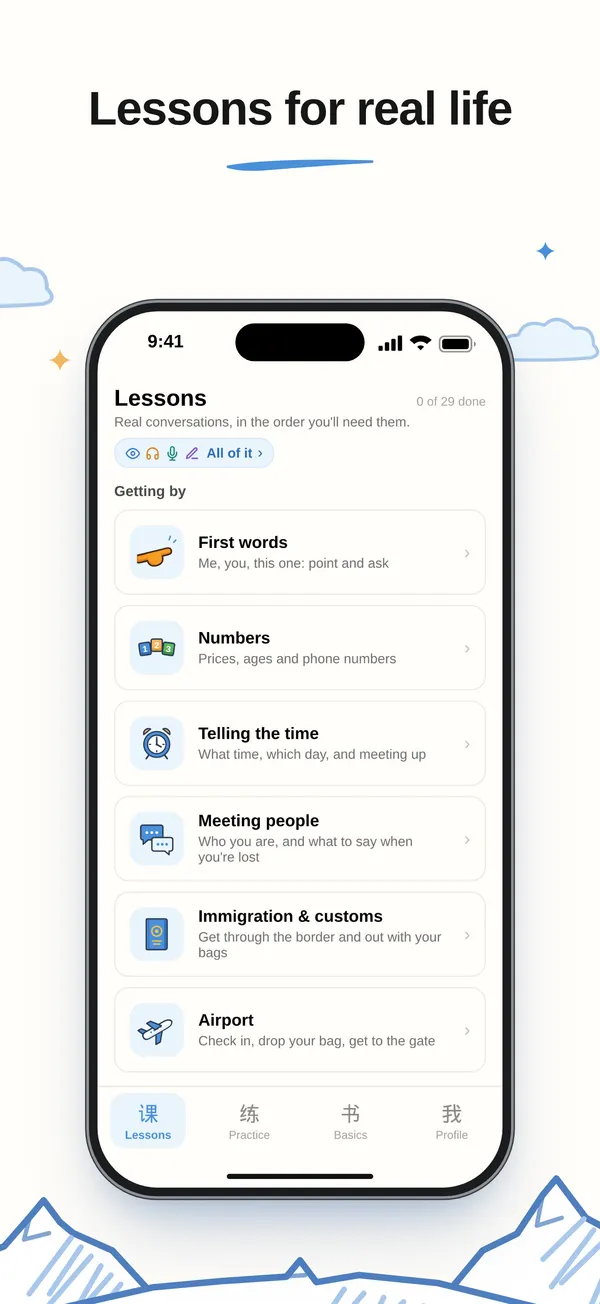
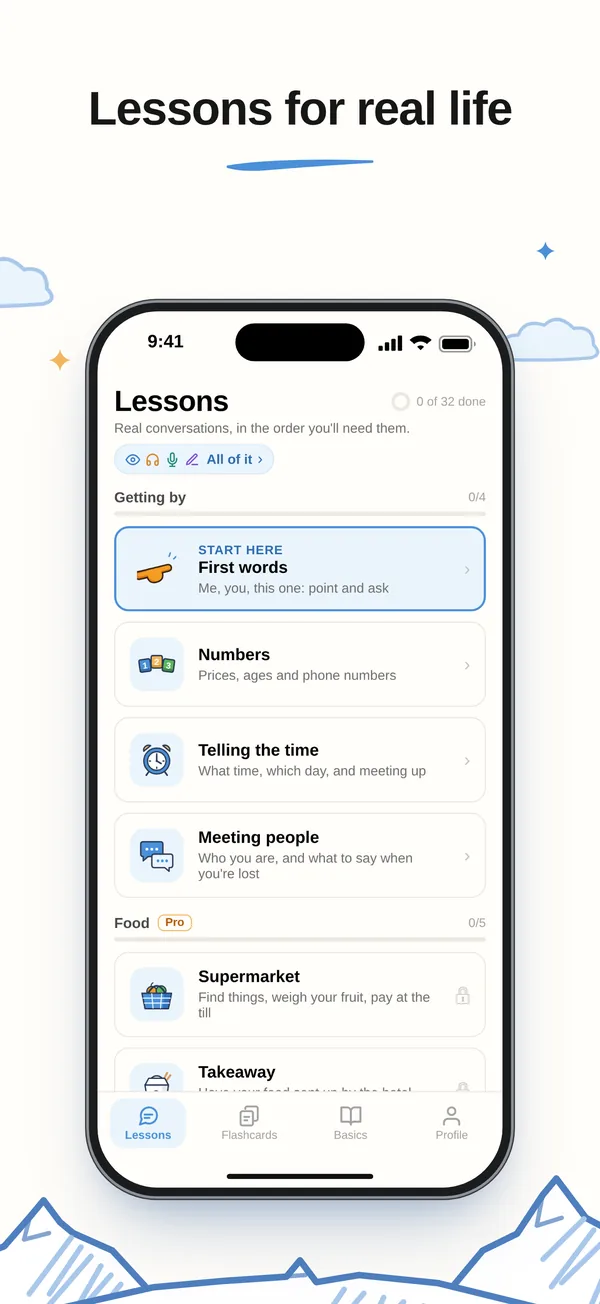
Mandarin Hero: Blog in the top menu, and 'speak Chinese for real' instead of 'a few minutes a day'
The landing page, its screenshots and share image follow the stores' new
copy; 32 lessons, and Flashcards where it said Practice.

Claude-Session: https://claude.ai/code/session_01RWYaChtk6HuFR3oHmpeT9F

diff --git a/site/layouts/apps/mandarinhero.html b/site/layouts/apps/mandarinhero.html
@@ -9,7 +9,7 @@
           <img src="{{ .Params.icon }}" alt="" class="mh-app-icon">
           <span>{{ .Title }}</span>
         </div>
-        <h1 class="mh-title">Master Chinese,<br>a few minutes a day</h1>
+        <h1 class="mh-title">Speak Chinese<br>for real</h1>
         <span class="mh-swoosh" aria-hidden="true"></span>
         <p class="mh-lead">Learn the Mandarin people actually speak. Lessons for real life, said out loud, and words that come back right before you'd forget them.</p>
         {{ partial "mh-get" . }}
@@ -37,7 +37,7 @@
         <div class="mh-step">
           <span class="mh-char">练</span>
           <h3>Make it stick</h3>
-          <p>A few minutes of practice a day. Every word comes back right before you'd forget it, until you know it for good.</p>
+          <p>Flashcards bring every word back right before you'd forget it, until you know it for good.</p>
         </div>
       </div>
       {{ with .Params.video }}
@@ -52,7 +52,7 @@
     </div>
     <div class="mh-gallery" tabindex="0" aria-label="Screenshots">
       {{ range $i, $alt := slice
-        "Master Chinese, a few minutes a day"
+        "Speak Chinese for real"
         "Lessons for real life"
         "Hear how people really talk"
         "Then say your part out loud"
@@ -73,7 +73,7 @@
         <div><h3>Audio on every line</h3><p>Every lesson's words, phrases and conversations are spoken, so your ear learns along with your eyes.</p></div>
         <div><h3>Tones from day one</h3><p>Hear and practise the four tones from the start, so you're understood when you speak.</p></div>
         <div><h3>A story for every character</h3><p>Each character's parts are named and coloured, with a short hook to remember how it's written.</p></div>
-        <div><h3>HSK 1 to 6</h3><p>Switch on whole HSK levels in Practice when you want more: all 5,000 words, with examples.</p></div>
+        <div><h3>HSK 1 to 6</h3><p>Switch on whole HSK levels in Flashcards when you want more: all 5,000 words, with examples.</p></div>
         <div><h3>English and Dutch</h3><p>The whole app, and every card, in either language.</p></div>
       </div>
     </div>
@@ -88,7 +88,7 @@
           <p class="mh-price">€0</p>
           <ul>
             <li>The first four lessons: first words, numbers, telling the time and meeting people</li>
-            <li>HSK 1 and 2 in Practice</li>
+            <li>HSK 1 and 2 in Flashcards</li>
             <li>Reviews of everything you've learned, forever</li>
           </ul>
         </div>
@@ -97,8 +97,8 @@
           <p class="mh-price">€39.99<small> / year</small></p>
           <p class="mh-price-note">7 days free, then yearly. Or €5.99 a month, or €79.99 once.</p>
           <ul>
-            <li>All 29 lessons, from the hotel to KTV</li>
-            <li>HSK 1 to 6 in Practice</li>
+            <li>All 32 lessons, from the hotel to the pharmacy</li>
+            <li>HSK 1 to 6 in Flashcards</li>
             <li>New lessons as they come, at no extra cost</li>
           </ul>
         </div>

diff --git a/site/layouts/partials/nav.html b/site/layouts/partials/nav.html
@@ -2,6 +2,9 @@
   <div class="n-wrap n-nav-inner">
     <a href="/" class="n-logo"><img src="/img/logo.svg" alt="Nuli" width="104" height="40"></a>
     <nav class="n-nav-links" aria-label="Main">
+      {{- if hasPrefix .RelPermalink "/apps/mandarinhero/" }}
+      <a href="/apps/mandarinhero/blog/">Blog</a>
+      {{- end }}
       <a href="/#apps">Apps</a>
       <a href="/#about">About</a>
       <a href="/#contact">Contact</a>

diff --git a/src/css/imports/_nuli.scss b/src/css/imports/_nuli.scss
@@ -34,6 +34,10 @@
   justify-content: space-between;
 }
 
+.n-logo {
+  flex-shrink: 0;
+}
+
 .n-logo img {
   display: block;
   height: 1.6rem;
@@ -42,7 +46,13 @@
 
 .n-nav-links {
   display: flex;
-  gap: 1.5rem;
+  gap: 1rem;
+}
+
+@media (min-width: 30em) {
+  .n-nav-links {
+    gap: 1.5rem;
+  }
 }
 
 .n-nav-links a {

diff --git a/site/content/apps/mandarinhero/_index.md b/site/content/apps/mandarinhero/_index.md
@@ -1,12 +1,12 @@
 ---
 title: Mandarin Hero
-seoTitle: "Mandarin Hero: learn everyday spoken Mandarin, a few minutes a day"
+seoTitle: "Mandarin Hero: speak everyday Chinese for real"
 tagline: Speak everyday Mandarin, one real-life situation at a time
-description: Learn the Mandarin people actually speak. Lessons for real life, said out loud, and words that come back right before you'd forget. A few minutes a day.
+description: Learn the Mandarin people actually speak. Lessons for real life, said out loud, and words that come back right before you'd forget them, so every hour you put in counts.
 status: live
 category: Education
 summary: Lessons built around real situations, like ordering food, taking a taxi or chatting on WeChat. You hear each conversation, then say your part out loud.
-highlights: ["29 real-life lessons, with audio on every line", "Spaced repetition that brings words back right before you'd forget", "Fully in English or Dutch"]
+highlights: ["32 real-life lessons, with audio on every line", "Spaced repetition that brings words back right before you'd forget", "Fully in English or Dutch"]
 layout: mandarinhero
 icon: /img/apps/mandarinhero/icon.png
 images: ["img/apps/mandarinhero/og.jpg"]
